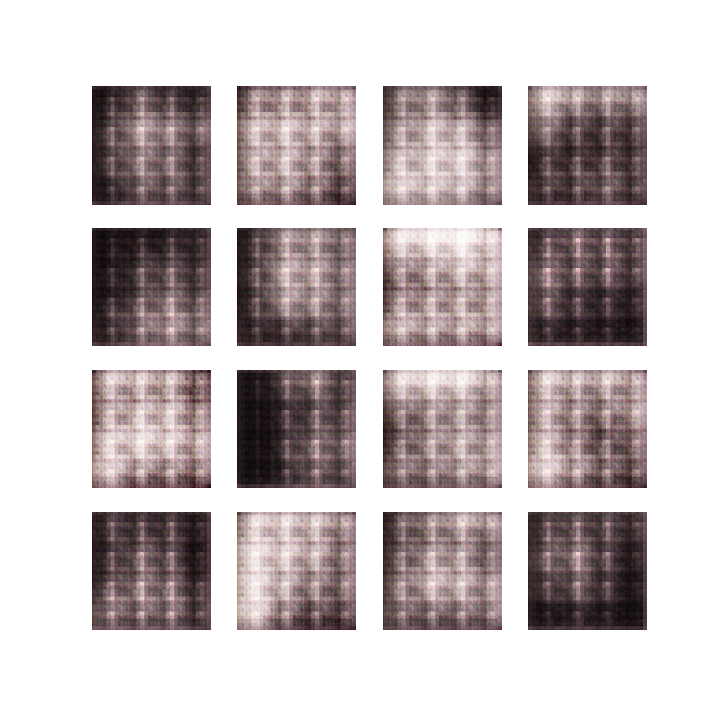
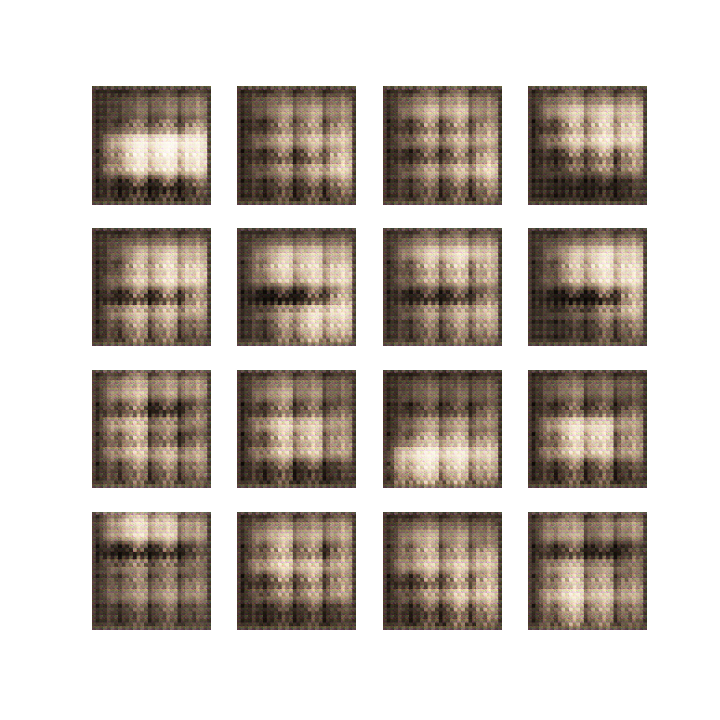
all

diff --git a/gan/gan_face_coding_style.py b/gan/gan_face_coding_style.py
@@ -13,14 +13,11 @@ import torchvision.utils as vutils
 
 class Config:
     # 將所有配置放在一個類別中，方便管理
-    dataroot = "dataset\\data"
-    batch_size = 32
+    dataroot = "dataset\\data_Crabs"
+    batch_size = 1
     image_size = 128
-    nc = 3
-    nz = 100
-    ngf = 64
-    ndf = 64
-    num_epochs = 30
+    nz = 1000
+    num_epochs = 100
     lr = 0.0002
     beta1 = 0.5
     ngpu = 1
@@ -55,7 +52,7 @@ class CustomDataset2(Dataset):
         self.data_dir = data_dir
         self.img_size = img_size
         self.num_classes = num_classes
-        self.categories = ["face"]
+        self.categories = ["Crabs"]
         self.data, self.labels = self.load_data()
 
     def load_data(self):
@@ -72,8 +69,8 @@ class CustomDataset2(Dataset):
                     print("Error loading:", img_path)
                     continue
                 img = cv2.resize(img, (self.img_size, self.img_size))
-                data.append(img)  # 把圖片放進去
-                labels.append(label)  # 把label放進去
+                data.append(img)
+                labels.append(label)
 
         data = np.array(data)
         labels = np.array(labels)
@@ -113,28 +110,25 @@ class Generator(nn.Module):
         config = Config()
         self.main = nn.Sequential(
             # input is Z, going into a convolution
-            nn.ConvTranspose2d(config.nz, config.ngf * 8, 4, 1, 0, bias=False),
-            nn.BatchNorm2d(config.ngf * 8),
+            nn.ConvTranspose2d(config.nz, 512, 4, 1, 0, bias=False),
+            nn.BatchNorm2d(512),
             nn.ReLU(True),
-            # state size. (config.ngf*8) x 4 x 4
-            nn.ConvTranspose2d(config.ngf * 8, config.ngf * \
-                               4, 4, 2, 1, bias=False),
-            nn.BatchNorm2d(config.ngf * 4),
+            # state size. 512 x 4 x 4
+            nn.ConvTranspose2d(512, 256, 4, 2, 1, bias=False),
+            nn.BatchNorm2d(256),
             nn.ReLU(True),
-            # state size. (config.ngf*4) x 8 x 8
-            nn.ConvTranspose2d(config.ngf * 4, config.ngf * \
-                               2, 4, 2, 1, bias=False),
-            nn.BatchNorm2d(config.ngf * 2),
+            # state size. 256 x 8 x 8
+            nn.ConvTranspose2d(256, 128, 4, 2, 1, bias=False),
+            nn.BatchNorm2d(128),
             nn.ReLU(True),
-            # state size. (config.ngf*2) x 16 x 16
-            nn.ConvTranspose2d(config.ngf * 2, config.ngf,
-                               4, 2, 1, bias=False),
-            nn.BatchNorm2d(config.ngf),
+            # state size. 128 x 16 x 16
+            nn.ConvTranspose2d(128, 64, 4, 2, 1, bias=False),
+            nn.BatchNorm2d(64),
             nn.ReLU(True),
-            # state size. (config.ngf) x 32 x 32
-            nn.ConvTranspose2d(config.ngf, config.nc, 4, 2, 1, bias=False),
+            # state size. 64 x 32 x 32
+            nn.ConvTranspose2d(64, 3, 4, 4, 0, bias=False),
             nn.Tanh()
-            # state size. (config.nc) x 64 x 64
+            # state size. 3 x 128 x 128
         )
 
     def forward(self, input):
@@ -142,33 +136,41 @@ class Generator(nn.Module):
 
 
 class Discriminator(nn.Module):
-    def __init__(self, ngpu):
+    def __init__(self, ngpu,
+                 input_shape=(3, 128, 128), num_classes=1):
         super(Discriminator, self).__init__()
         self.ngpu = ngpu
-        config = Config()
-        self.main = nn.Sequential(
-            # input is (config.nc) x 64 x 64
-            nn.Conv2d(config.nc, config.ndf, 4, 2, 1, bias=False),
-            nn.LeakyReLU(0.2, inplace=True),
-            # state size. (config.ndf) x 32 x 32
-            nn.Conv2d(config.ndf, config.ndf * 2, 4, 2, 1, bias=False),
-            nn.BatchNorm2d(config.ndf * 2),
-            nn.LeakyReLU(0.2, inplace=True),
-            # state size. (config.ndf*2) x 16 x 16
-            nn.Conv2d(config.ndf * 2, config.ndf * 4, 4, 2, 1, bias=False),
-            nn.BatchNorm2d(config.ndf * 4),
-            nn.LeakyReLU(0.2, inplace=True),
-            # state size. (config.ndf*4) x 8 x 8
-            nn.Conv2d(config.ndf * 4, config.ndf * 8, 4, 2, 1, bias=False),
-            nn.BatchNorm2d(config.ndf * 8),
-            nn.LeakyReLU(0.2, inplace=True),
-            # state size. (config.ndf*8) x 4 x 4
-            nn.Conv2d(config.ndf * 8, 1, 4, 1, 0, bias=False),
-            nn.Sigmoid()
+        self.conv_layers = nn.Sequential(
+            nn.Conv2d(3, 32, kernel_size=3, padding=1),
+            nn.ReLU(),
+            nn.MaxPool2d(2),
+
+            nn.Conv2d(32, 64, kernel_size=3, padding=1),
+            nn.ReLU(),
+            nn.MaxPool2d(2),
+
+            nn.Conv2d(64, 128, kernel_size=3, padding=1),
+            nn.ReLU(),
+            nn.MaxPool2d(2)
         )
 
-    def forward(self, input):
-        return self.main(input)
+        # 計算全連接層的輸入尺寸
+        conv_output_size = input_shape[1] // 2 // 2 // 2  # 在三次池化後的影像尺寸
+        self.fc_layers = nn.Sequential(
+            nn.Flatten(),
+            nn.Linear(conv_output_size * conv_output_size * 128, 64),
+            nn.ReLU(),
+            nn.Linear(64, num_classes),
+            nn.Sigmoid()
+            # nn.Softmax(dim=1)
+        )
+
+    def forward(self, x):
+        x = self.conv_layers(x)
+        x = self.fc_layers(x)
+        x = x.unsqueeze(-1).unsqueeze(-1)
+        # print(x.size())
+        return x
 
 
 def weights_init(m):
@@ -196,7 +198,8 @@ def show_images(images, epoch):
     plt.show()
 
 
-def train(config, dataloader, generator, discriminator, device):
+def train(config, dataloader, generator, discriminator):
+    device = config.device
     fixed_noise = torch.randn(16, config.nz, 1, 1, device=device)
     # 初始化 BCELoss 函數
     criterion = nn.BCELoss()
@@ -252,12 +255,10 @@ def train(config, dataloader, generator, discriminator, device):
             D_G_z2 = output.mean().item()
             optimizerG.step()
 
-            # 打印訓練狀態
             if i % 50 == 0:
                 print('[%d/%d][%d/%d]\tLoss_D: %.4f\tLoss_G: %.4f\tD(x): %.4f\tD(G(z)): %.4f / %.4f'
                       % (epoch, config.num_epochs, i, len(dataloader), errD.item(), errG.item(), D_x, D_G_z1, D_G_z2))
 
-            # 紀錄損失用於後續繪圖
             G_losses.append(errG.item())
             D_losses.append(errD.item())
 
@@ -265,12 +266,12 @@ def train(config, dataloader, generator, discriminator, device):
             if (iters % 500 == 0) or ((epoch == config.num_epochs-1) and (i == len(dataloader)-1)):
                 with torch.no_grad():
                     fake = generator(fixed_noise).detach().cpu()
+                    show_images(fake[:16], epoch)
                 img_list.append(vutils.make_grid(
                     fake, padding=2, normalize=True))
 
             iters += 1
 
-    # 返回訓練完成後的模型和統計資料
     return generator, discriminator, G_losses, D_losses, img_list
 
 

diff --git a/gan/gan_face.py b/gan/gan_face.py
@@ -10,7 +10,7 @@ import PIL.Image as Image
 import torchvision.utils as vutils
 import cv2
 # Root directory for dataset
-dataroot = "dataset\\data"
+dataroot = "dataset\\data_Crabs"
 
 # Number of workers for dataloader
 workers = 1
@@ -71,7 +71,7 @@ class CustomDataset2(Dataset):
         self.data_dir = data_dir
         self.img_size = img_size
         self.num_classes = num_classes
-        self.categories = ["face"]
+        self.categories = ["Crabs"]
         self.data, self.labels = self.load_data()
 
     def load_data(self):
